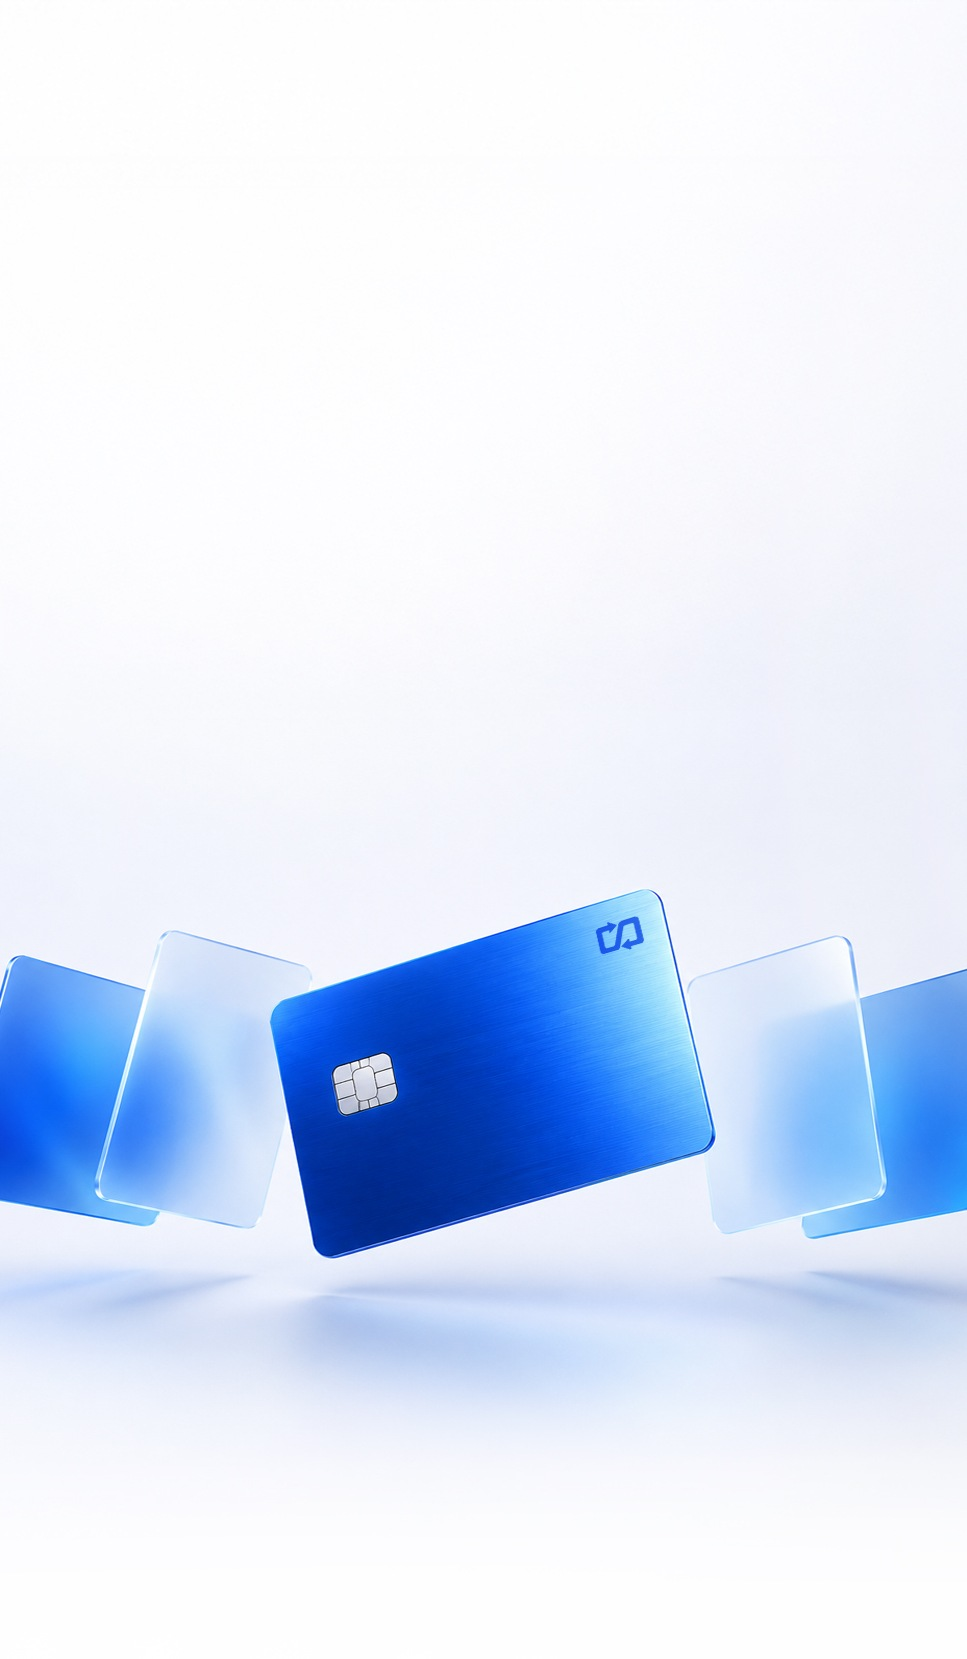
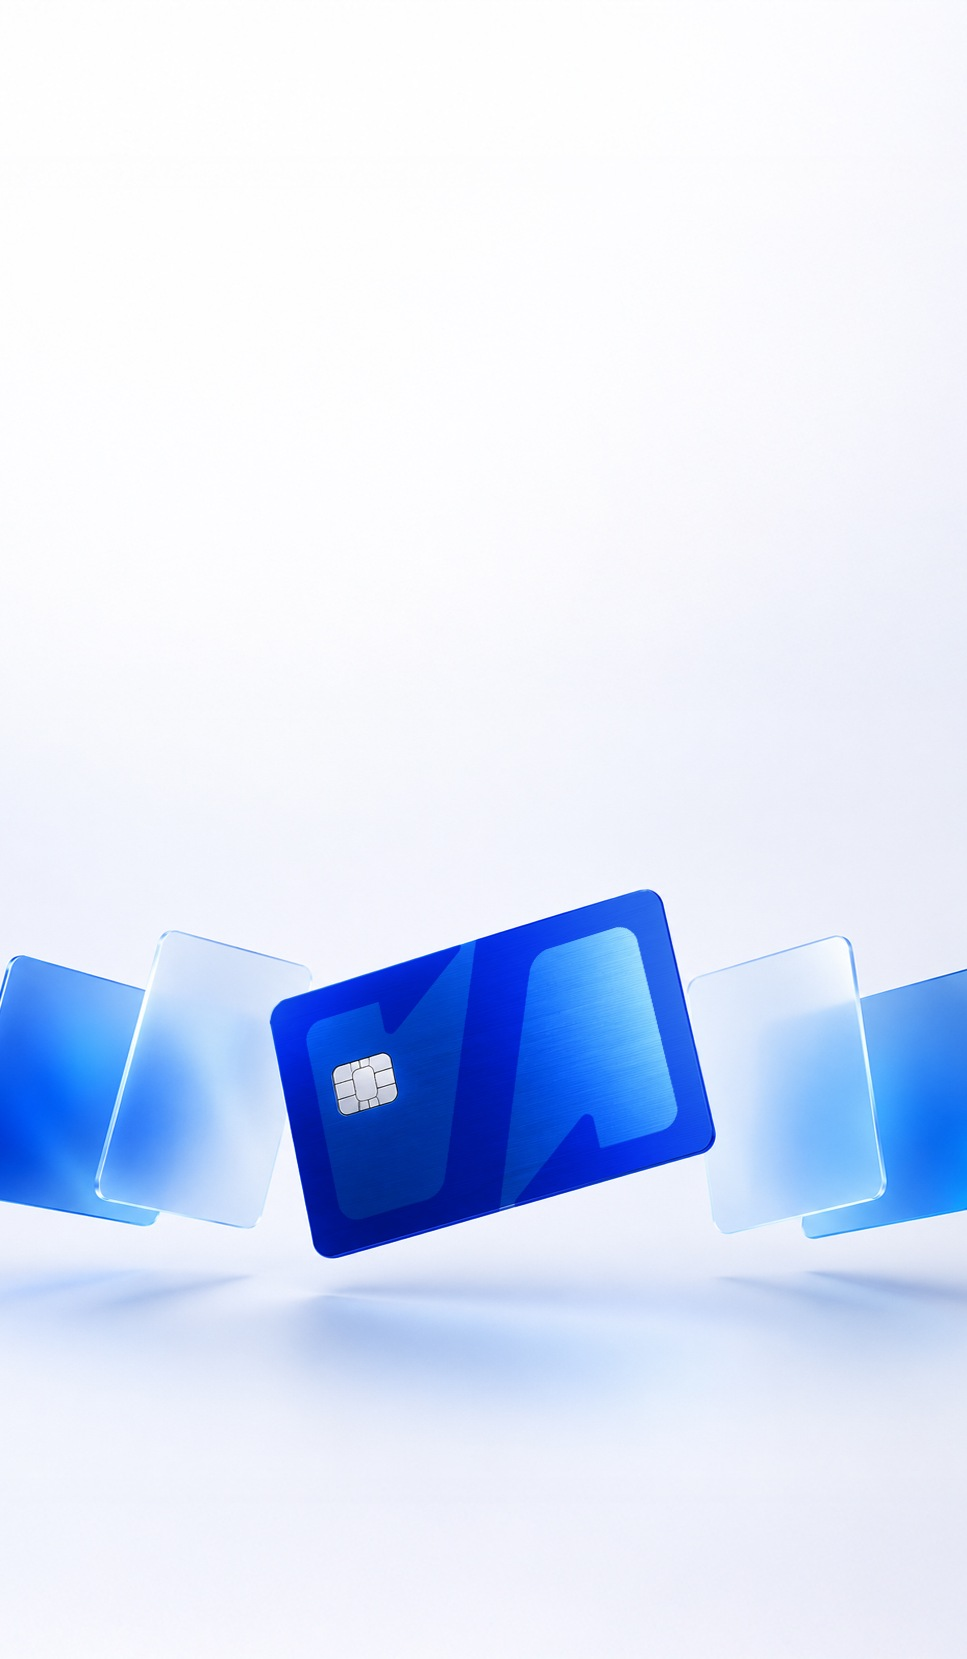
카드 · 헤더 배경 수정본 재적용

Changed region(s): [[0.2792, 0.5226, 0.7446, 0.7685], [0.9307, 0.5841, 1.0, 0.7378]]

diff --git a/index.html b/index.html
@@ -21,7 +21,7 @@
 
   /* ① 히어로 — 가운데 한 마디 + 한 장씩 넘어가는 대화 카드 (레퍼런스 방식) */
   .hero{position:relative; color:var(--ink); padding:88px 0 42vw; overflow:clip;
-    background-color:#F6F7FB; background-image:url('img/hero-bg10.jpg?v=2');
+    background-color:#F6F7FB; background-image:url('img/hero-bg10.jpg?v=4');
     background-size:122% auto; background-position:center calc(100% + 2.5vw); background-repeat:no-repeat;
     min-height:calc(100vh - var(--appbar)); min-height:calc(100svh - var(--appbar));
     display:flex; flex-direction:column; justify-content:flex-start;}
@@ -45,7 +45,7 @@
 
   /* 모바일 — 이미지 크게 · 가운데 정렬 */
   @media(max-width:767px){
-    .hero{background-color:#FDFDFE; background-image:url('img/hero-bg10-m.jpg');
+    .hero{background-color:#FDFDFE; background-image:url('img/hero-bg10-m.jpg?v=4');
       background-size:100% auto; background-position:center bottom;
       padding:96px 0 96vw;}
     .hero .hero2{text-align:center;}
@@ -498,7 +498,7 @@
   .srow{background:linear-gradient(180deg,#FFFFFF,#F8FAFE);
     box-shadow:0 14px 30px rgba(15,23,42,.08), 0 3px 8px rgba(15,23,42,.04);}
   /* 서류 3줄 + 버튼 = 신용카드 한 장 */
-  #itemsec .itr-card{background:transparent url('img/card-face.png') center/100% 100% no-repeat;
+  #itemsec .itr-card{background:transparent url('img/card-face.png?v=2') center/100% 100% no-repeat;
     border:none; border-radius:0; aspect-ratio:1.492/1; padding:24px 28px;
     display:flex; flex-direction:column; justify-content:flex-end;
     filter:drop-shadow(0 16px 26px rgba(10,14,26,.38));}
